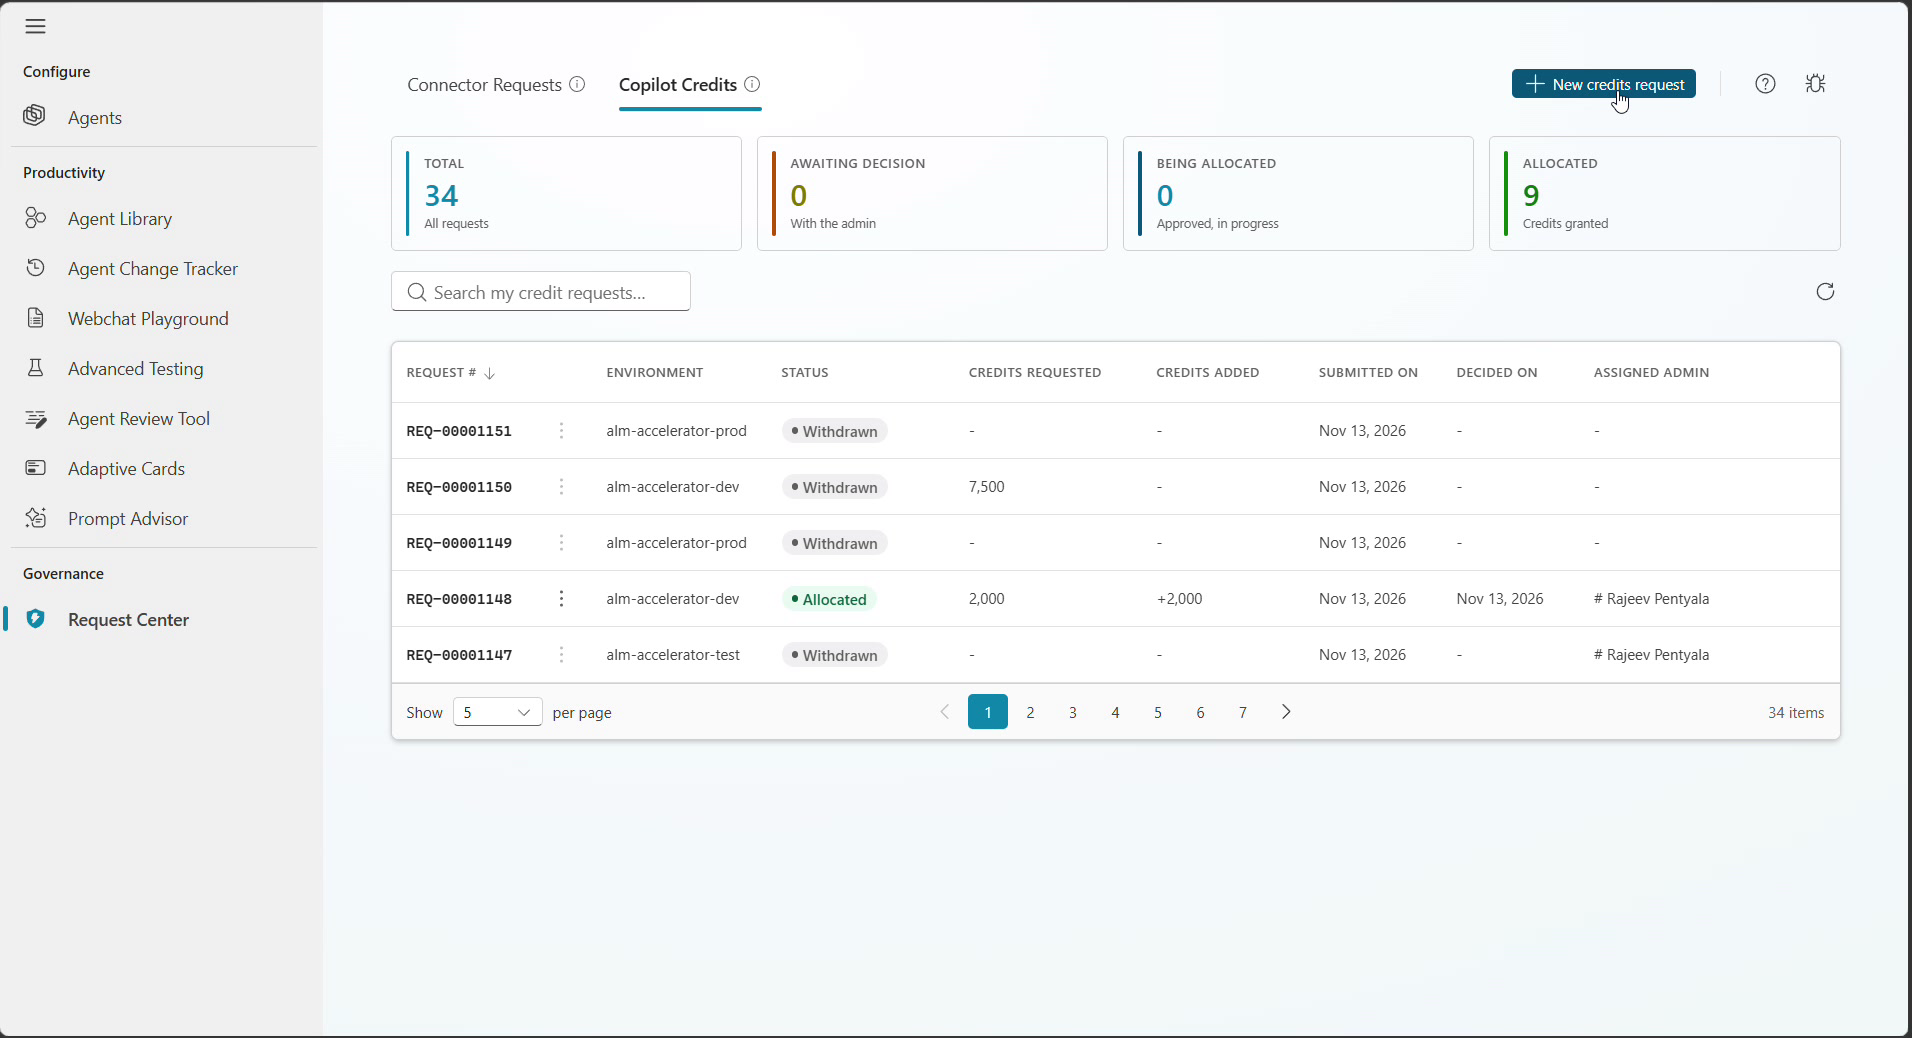
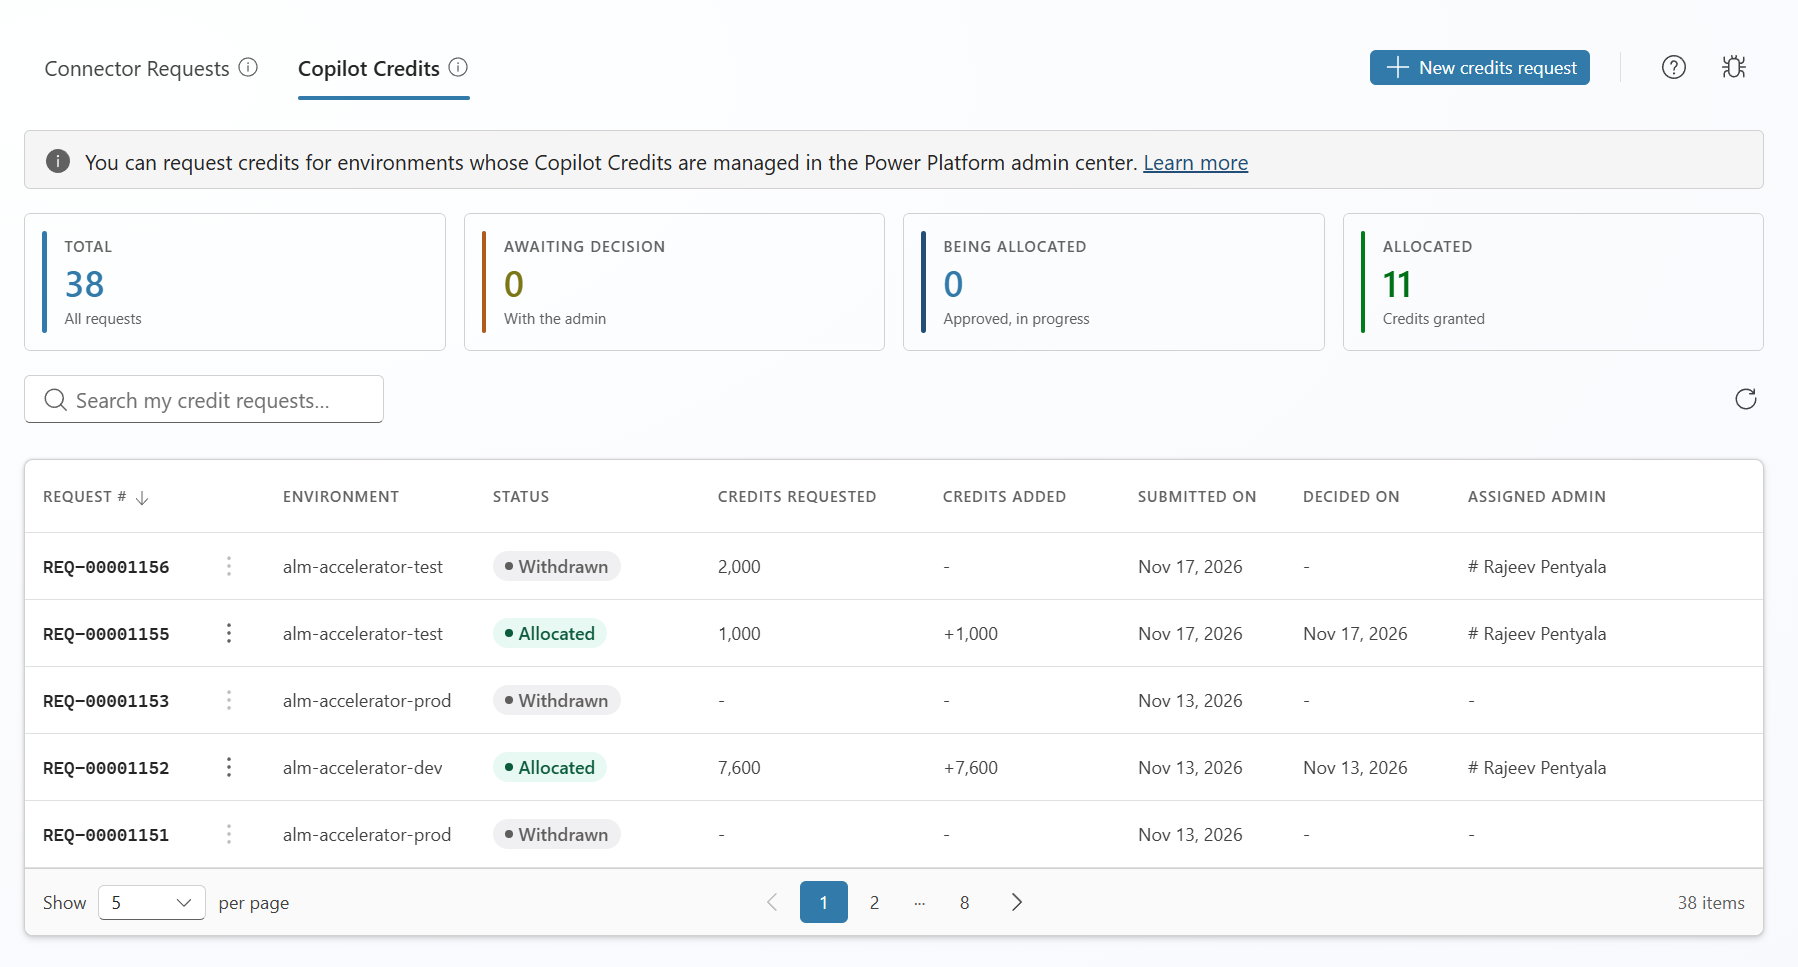
docs: note Copilot Credits works with PPAC-managed environments
Copilot-Session: 997fc012-a0d6-4569-b41d-bd578b668875

diff --git a/COPILOT_CREDITS_REQUESTS.md b/COPILOT_CREDITS_REQUESTS.md
@@ -18,8 +18,8 @@ The **Copilot Credits** tab in [Request Center](./REQUEST_CENTER.md) lets makers
 - **Tenant draw**: The **Draw from the available capacity in my tenant** setting for an environment. When it's on, the environment can use your tenant's unassigned credits when its own credits run out, or if it has none.
 - **One request per environment**: Each environment in a submission becomes its own request. An environment can have only one active credit request at a time.
 
-> [!IMPORTANT]
-> Copilot Credits requests work only for environments whose Copilot Credits are managed in the Power Platform admin center. If a Microsoft 365 admin center spending policy covers the environment, approval in Copilot Agent Kit doesn't apply. Reject the request and manage credits in the Microsoft 365 admin center instead. For more information, see [Manage Copilot Studio costs](https://learn.microsoft.com/copilot/implement/usage-based-billing-manage-copilot-studio-costs).
+> [!NOTE]
+> You can request credits for environments whose Copilot Credits are managed in the Power Platform admin center. If an environment's credits are managed in the Microsoft 365 admin center instead, manage them there. For more information, see [Manage Copilot Studio costs](https://learn.microsoft.com/copilot/implement/usage-based-billing-manage-copilot-studio-costs).
 
 ## Before you start
 
@@ -29,6 +29,7 @@ The Copilot Credits tab doesn't use any cloud flows. You don't need to run **Pow
 
 - The **CAK - Maker** or **System Administrator** security role.
 - The connections that Copilot Agent Kit for Makers already uses: **Power Apps for Makers** and **Microsoft Dataverse**. No extra setup is needed.
+- An environment whose Copilot Credits are managed in the Power Platform admin center. If you're not sure, ask your admin.
 
 ### Admins
 
@@ -121,7 +122,7 @@ You must assign a request to yourself before you can approve or reject it.
 1. In the request list, select the row action menu (⋮), and then select **Assign to Me**.
 2. Read the **Before you approve** checklist in the dialog:
    - You need the **Power Platform Administrator** role.
-   - Check the Power Platform admin center to see if the environment uses a Microsoft 365 admin center spending policy. If it does, reject the request.
+   - Check that the environment's credits are managed in the Power Platform admin center. If they're managed in the Microsoft 365 admin center, reject the request and let the maker know.
 3. Select **Confirm**. The request moves to **Under Review**.
 
 ### Review a request
@@ -217,4 +218,4 @@ An environment becomes free for a new request when its current request is **Allo
 
 **Approval succeeded, but the environment doesn't use the credits**
 
-- A Microsoft 365 admin center spending policy might cover the environment. Check the Power Platform admin center. If a spending policy applies, manage credits in the [Microsoft 365 admin center](https://admin.microsoft.com).
+- The environment's credits might be managed in the Microsoft 365 admin center. If so, manage them in the [Microsoft 365 admin center](https://admin.microsoft.com).

diff --git a/REQUEST_CENTER.md b/REQUEST_CENTER.md
@@ -10,6 +10,8 @@ Request Center has two tabs:
 | **Copilot Credits** | Copilot Credits for an environment, permission to draw from the tenant's unassigned credits, or both | Allocates the credits to the environment in the Power Platform admin center |
 
 > [!NOTE]
+> The **Copilot Credits** tab works with environments whose Copilot Credits are managed in the Power Platform admin center. For details, see [Copilot Credits requests](./COPILOT_CREDITS_REQUESTS.md#key-concepts).
+>
 > The **Connector Requests** tab was previously called **Power Shield**. It works the same way as before, and your existing requests are on this tab.
 
 ## In this article
